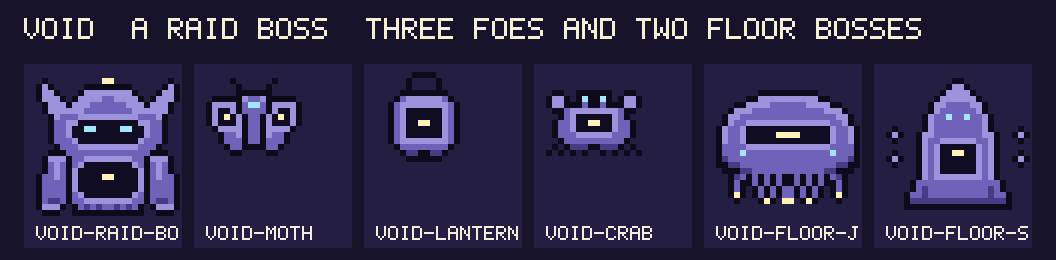
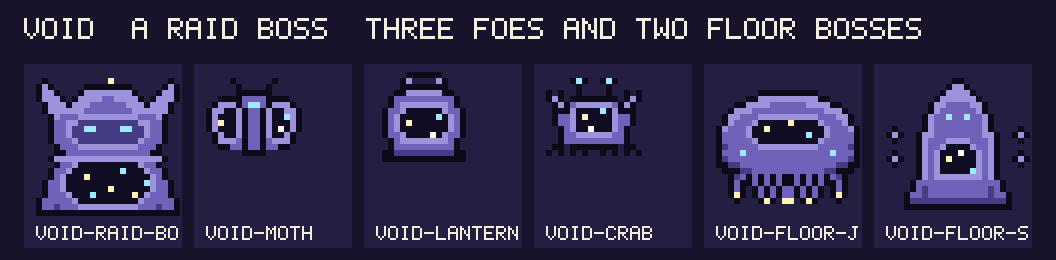
Art: Void foes round two, irregular starry windows with single-pixel stars
Claude-Session: https://claude.ai/code/session_01TqJ8tUAM4Muj4eb7wE4uc8

diff --git a/apps/activity/src/sprites/concepts/void-foes.ts b/apps/activity/src/sprites/concepts/void-foes.ts
@@ -35,35 +35,34 @@ export const VOID_FOES_CONCEPTS: ConceptSet = {
   sprites: {
     'void-raid-boss': {
       kind: 'boss',
-      note: 'Hollow Crown: a huge hooded giant under a crescent crown, two glinting eyes in the hood and a starry window in its chest.',
+      note: 'Hollow Crown: a huge hooded giant under a crescent crown, two glinting eyes in the hood and a cloak that opens on a starfield.',
       sprite: {
-        mirror: true,
         palette: pal('kbhswtg'),
         rows: [
-          '............',
-          '.k.........t',
-          'khk.....kkkk',
-          'khhk...khhhh',
-          'khhhk.khhhhb',
-          '.khhhkhhhbbb',
-          '.khhhhhhbbbb',
-          '..khbbbhhhhh',
-          '..kbbhhwwwww',
-          '..kbbhwwggww',
-          '..kbbhwwwwww',
-          '..kbbbhwwwww',
-          '...kbbbhhhhh',
-          '..kkkbbbbbbb',
-          '.khhhkbbhhhh',
-          '.kbhbkbhwwww',
-          '.kbhbkhwwwww',
-          'kbbhbkhwwwwt',
-          'kbbbbkhwwwww',
-          'kbbbbkhwwwww',
-          'kbbbbkbhwwww',
-          'kbssbkbbhhhh',
-          'khhhk.kbsbsb',
-          '.kkk..kkkkkk',
+          '........................',
+          '.k..........t.........k.',
+          'khk.....kkkkkkkk.....khk',
+          'khhk...khhhhhhhhk...khhk',
+          'khhhk.khhhhbbhhhhk.khhhk',
+          '.khhhkhhhbbbbbbhhhkhhhk.',
+          '.khhhhhhbbbbbbbbhhhhhhk.',
+          '..khbbbhhhhhhhhhhbbbhk..',
+          '..kbbhhsssssssssshhbbk..',
+          '..kbbhssggssssggsshbbk..',
+          '..kbbhsssssssssssshbbk..',
+          '..kbbbhsssssssssshbbbk..',
+          '...kbbbhhhhhhhhhhbbbk...',
+          '...kkbbbbbbbbbbbbbbkk...',
+          '..khhhhhhhhhhhhhhhhhhk..',
+          '...kbbhwwwwwwwwwwhbbk...',
+          '..kbbhwwwwwwwwgwwwhbbk..',
+          '..kbhwwwtwwwwwwwwwwhbk..',
+          '.kbbhwwwwwwwwwwwwwghbbk.',
+          '.kbbhwwwwwwwtwwwwwwhbbk.',
+          '.kbbbhwwwgwwwwwwtwhbbbk.',
+          'kbbbbbhwwwwwwwwwwhbbbbbk',
+          'kbbsbbbhhhhhhhhhhbbbsbbk',
+          'kkkkkkkkkkkkkkkkkkkkkkkk',
         ],
       },
     },
@@ -71,77 +70,74 @@ export const VOID_FOES_CONCEPTS: ConceptSet = {
       kind: 'foe',
       note: 'Dusk Moth: wide wings, each with a starry window, a glowing eye pair; it eats light.',
       sprite: {
-        mirror: true,
-        palette: pal('kbhwtg'),
+        palette: pal('kebhwtg'),
         rows: [
-          '........',
-          '....k...',
-          '.....k..',
-          '.....kkk',
-          '.kkkkkhb',
-          'khhhhkbg',
-          'khwwhkbb',
-          'khwtwhkb',
-          'khwwwhkb',
-          '.khhhhkb',
-          '..kbbhkb',
-          '..kbbbkb',
-          '...kbbkk',
-          '....kk..',
-          '........',
-          '........',
+          '................',
+          '....k......k....',
+          '.....k....k.....',
+          '.....kkkkkk.....',
+          '..kkkkbbbbkkkk..',
+          '.khhhkbggbkhhhk.',
+          'khhwwhkbbkhwwhhk',
+          'khwwwhkbbkhwwghk',
+          'khtwwhkbbkhwwwhk',
+          'khwwwhkbbkhwewhk',
+          '.khwwhkbbkhwwhk.',
+          '.khhhbkbbkbhhhk.',
+          '..kkbbkbbkbbkk..',
+          '......kkkk......',
+          '................',
+          '................',
         ],
       },
     },
     'void-lantern': {
       kind: 'foe',
-      note: 'Hollow Lantern: a hanging lantern whose glass is a window of night with one warm star; it hides what it lights.',
+      note: 'Hollow Lantern: a hanging lantern (hook, cap, glass, base) whose glass holds a small night with stars; it hides what it lights.',
       sprite: {
-        mirror: true,
-        palette: pal('kbhswt'),
+        palette: pal('kebhswtg'),
         rows: [
-          '......kk',
-          '.....k..',
-          '.....k..',
-          '....kkkk',
-          '...kbhhh',
-          '..kbhhhh',
-          '..kbhwww',
-          '..kbhwww',
-          '..kbhwwt',
-          '..kbhwww',
-          '..kbhwww',
-          '..kbhhhh',
-          '...kbbbb',
-          '....kssk',
-          '.....kkk',
-          '........',
+          '.....kkkkkk.....',
+          '....kh....hk....',
+          '....kkkkkkkk....',
+          '...kkhhhhhhkk...',
+          '..kbbbbbbbbbbk..',
+          '..kbhhhhhhhhbk..',
+          '.kbbhwwwwwwhbbk.',
+          '.kbhwwwwwwgwhbk.',
+          '.kbhwtwwwwwwhbk.',
+          '.kbhwwwwwwwwhbk.',
+          '.kbbhwwwwewhbbk.',
+          '..kbhhhhhhhhbk..',
+          '..kbbbbbbbbbbk..',
+          '.kksssssssssskk.',
+          '.kkkkkkkkkkkkkk.',
+          '................',
         ],
       },
     },
     'void-crab': {
       kind: 'foe',
-      note: 'Drift Crab: a low round shell with a window and two big claws; it tucks in and hides.',
+      note: 'Drift Crab: a crab on eye stalks with two raised claws, a starry window in its shell; it tucks in and hides.',
       sprite: {
-        mirror: true,
-        palette: pal('kbhswtg'),
+        palette: pal('kebhwtg'),
         rows: [
-          '........',
-          '........',
-          '........',
-          '.kk..kkk',
-          'khhk.kgk',
-          'khhkkkbk',
-          '.kkbhhhh',
-          '..kbhwww',
-          '.kbbhwwt',
-          '.kbbhwww',
-          '.kbbbhhh',
-          '..kbbbbb',
-          '.k.ksssk',
-          'k.k.k.k.',
-          '........',
-          '........',
+          '................',
+          '....kgk..kgk....',
+          '.....k....k.....',
+          'k.k..k....k..k.k',
+          'khk.kkkkkkkk.khk',
+          '.khkbhhhhhhbkhk.',
+          '.kkkhwwwwgwhkkk.',
+          '.kbbhwtwwwwhbbk.',
+          '.kbbhwwwwwwhbbk.',
+          '..kbhwwewwwhbk..',
+          '..kbbhhhhhhbbk..',
+          '..kbbbbbbbbbbk..',
+          '.kk.kkkkkkkk.kk.',
+          'k.k.k.k..k.k.k.k',
+          '................',
+          '................',
         ],
       },
     },
@@ -149,33 +145,32 @@ export const VOID_FOES_CONCEPTS: ConceptSet = {
       kind: 'boss',
       note: 'Lantern Drifter: a floating bell with a starry window, two glinting eyes and trailing tendrils tipped with stars.',
       sprite: {
-        mirror: true,
         palette: pal('kbhswtg'),
         rows: [
-          '............',
-          '............',
-          '............',
-          '.......kkkkk',
-          '.....kkhhhhh',
-          '...kkhhhhbbb',
-          '..khhhbbbbbb',
-          '.khhbbbbbbbb',
-          '.khbbhhhhhhh',
-          'khbbhwwwwwww',
-          'khbbhwwwwwtt',
-          'khbbhwwwwwww',
-          'kbbbbhhhhhhh',
-          'kbbbgbbbbbbb',
-          'ksbbbbbbbbbb',
-          'kkssbbbbbbbb',
-          '.kkkssbbbbbb',
-          '..ksbkbkbkbk',
-          '..kbkkbkbkbk',
-          '..kbk.kbkbkb',
-          '..ktk.kbkbkb',
-          '...k...ktk.t',
-          '............',
-          '............',
+          '........................',
+          '........................',
+          '........................',
+          '.......kkkkkkkkkk.......',
+          '.....kkhhhhhhhhhhkk.....',
+          '...kkhhhhbbbbbbhhhhkk...',
+          '..khhhbbbbbbbbbbbbhhhk..',
+          '.khhbbbhhhhhhhhhhbbbhhk.',
+          '.khbbbhwwwwwtwwwwhbbbhk.',
+          'khbbbhwwtwwwwwwwwwhbbbhk',
+          'kbbbbhwwwwwwwwwgwwhbbbbk',
+          'kbbbbbhwwwwwwwwwwhbbbbbk',
+          'ksbbbbbhhhhhhhhhhbbbbbsk',
+          'kbbbgbbbbbbbbbbbbbbgbbbk',
+          'ksbbbbbbbbbbbbbbbbbbbbsk',
+          'kkssbbbbbbbbbbbbbbbbsskk',
+          '.kkkssbbbbbbbbbbbbsskkk.',
+          '..ksbkbkbkbkkbkbkbkbsk..',
+          '..kbkkbkbkbkkbkbkbkkbk..',
+          '..kbk.kbkbkbbkbkbk.kbk..',
+          '..ktk.kbkbkbbkbkbk.ktk..',
+          '...k...ktk.tt.ktk...k...',
+          '........................',
+          '........................',
         ],
       },
     },
@@ -183,33 +178,32 @@ export const VOID_FOES_CONCEPTS: ConceptSet = {
       kind: 'boss',
       note: 'Dim Sentinel: a tall standing stone with a doorway of night in its belly, glinting eyes and two shards orbiting it.',
       sprite: {
-        mirror: true,
-        palette: pal('kbhswtg'),
+        palette: pal('kebhswtg'),
         rows: [
-          '............',
-          '...........k',
-          '..........kh',
-          '.........khh',
-          '........khhh',
-          '.......khhbb',
-          '.......khbbb',
-          '......khbbgb',
-          '......khbbbb',
-          '.k....khbbbb',
-          'khk..khhbbbb',
-          '.k...khbbhhh',
-          '.....khbhwww',
-          '.k...khbhwwt',
-          'khk..khbhwww',
-          '.k...khbhwww',
-          '.....khbhwww',
-          '.....khbhhhh',
-          '....kbbbbbbb',
-          '....kbsbbbbb',
-          '...kbbsbbbbb',
-          '...kssssssss',
-          '...kkkkkkkkk',
-          '............',
+          '........................',
+          '...........kk...........',
+          '..........khhk..........',
+          '.........khhhhk.........',
+          '........khhhhhhk........',
+          '.......khhbbbbhhk.......',
+          '.......khbbbbbbhk.......',
+          '......khbbgbbgbbhk......',
+          '......khbbbbbbbbhk......',
+          '.k....khbbbbbbbbhk....k.',
+          'khk..khhbbbbbbbbhhk..khk',
+          '.k...khbbbhhhhbbbhk...k.',
+          '.....khbbhwwwwhbbhk.....',
+          '.k...khbhwwwewwhbhk...k.',
+          'khk..khbhwtwwwwhbhk..khk',
+          '.k...khbhwwwwwwhbhk...k.',
+          '.....khbhwwwwwghbhk.....',
+          '.....khbhhhhhhhhbhk.....',
+          '....kbbbbbbbbbbbbbbk....',
+          '....kbsbbbbbbbbbbsbk....',
+          '...kbbsbbbbbbbbbbsbbk...',
+          '...kssssssssssssssssk...',
+          '...kkkkkkkkkkkkkkkkkk...',
+          '........................',
         ],
       },
     },

diff --git a/docs/art/README.md b/docs/art/README.md
@@ -47,15 +47,15 @@ Status: **liked** means Misa approved the look; **draft** means he has not said 
 - **Requested:** 2026-10-31: a Void raid boss, dungeon foes and dungeon bosses.
 - **Element:** void
 - **Source:** `apps/activity/src/sprites/concepts/void-foes.ts` (draw it with `pnpm art void-foes`)
-- **Sheet of:** `91871f7ffde6`
+- **Sheet of:** `5cc2ffa984ae`
 - Needs before use: the Void element in the content, names, stats, gimmicks, lore and a place.
 - Working names and ideas are in docs/compendium/bosses.md and dungeon.md ("Concept, not shipped").
 
 | Code | Kind | Role | Status | Idea |
 | --- | --- | --- | --- | --- |
-| `void-raid-boss` | boss |  | draft | Hollow Crown: a huge hooded giant under a crescent crown, two glinting eyes in the hood and a starry window in its chest. |
+| `void-raid-boss` | boss |  | draft | Hollow Crown: a huge hooded giant under a crescent crown, two glinting eyes in the hood and a cloak that opens on a starfield. |
 | `void-moth` | foe |  | draft | Dusk Moth: wide wings, each with a starry window, a glowing eye pair; it eats light. |
-| `void-lantern` | foe |  | draft | Hollow Lantern: a hanging lantern whose glass is a window of night with one warm star; it hides what it lights. |
-| `void-crab` | foe |  | draft | Drift Crab: a low round shell with a window and two big claws; it tucks in and hides. |
+| `void-lantern` | foe |  | draft | Hollow Lantern: a hanging lantern (hook, cap, glass, base) whose glass holds a small night with stars; it hides what it lights. |
+| `void-crab` | foe |  | draft | Drift Crab: a crab on eye stalks with two raised claws, a starry window in its shell; it tucks in and hides. |
 | `void-floor-jelly` | boss |  | draft | Lantern Drifter: a floating bell with a starry window, two glinting eyes and trailing tendrils tipped with stars. |
 | `void-floor-sentinel` | boss |  | draft | Dim Sentinel: a tall standing stone with a doorway of night in its belly, glinting eyes and two shards orbiting it. |

diff --git a/docs/compendium/bosses.md b/docs/compendium/bosses.md
@@ -240,7 +240,7 @@ Status: concept only. A working name, a look and ideas for Misa to react to; not
 
 - **Silhouette:** huge, hooded, with two crescent horns, wide hanging sleeves and a ragged hem.
 - **Palette:** the Void family: dusk purple, lilac rim, ink.
-- **Glowing details:** two pale cyan eyes in the dark of the hood, and one warm star in a round window in its chest.
+- **Glowing details:** two pale cyan eyes in the dark of the hood, and a cloak that opens on a field of stars (warm ones and cool ones) down its front.
 - **Pose:** upright and still, arms hanging, facing the viewer.
 - **Never:** teeth, a scowl, or anything gory. The dark in the hood always has a lilac border.
 
